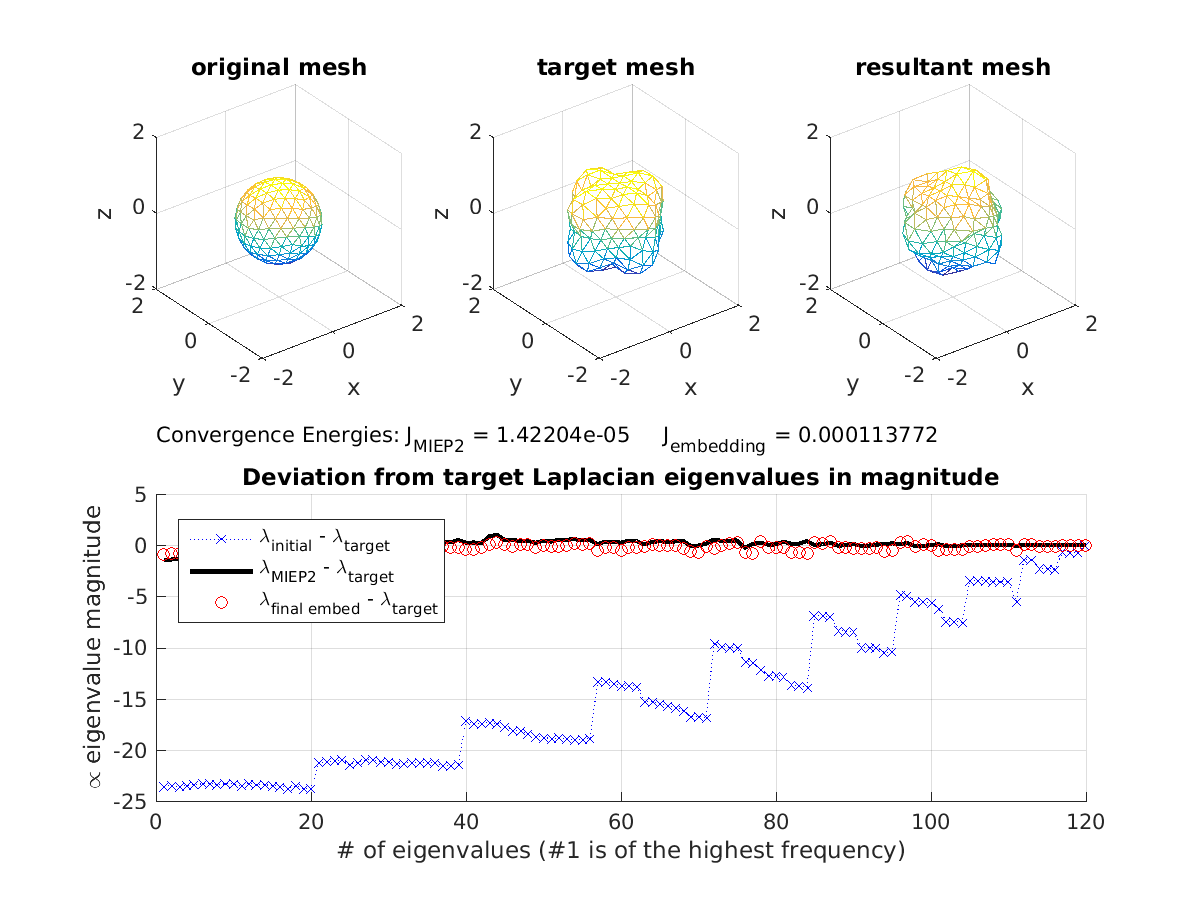
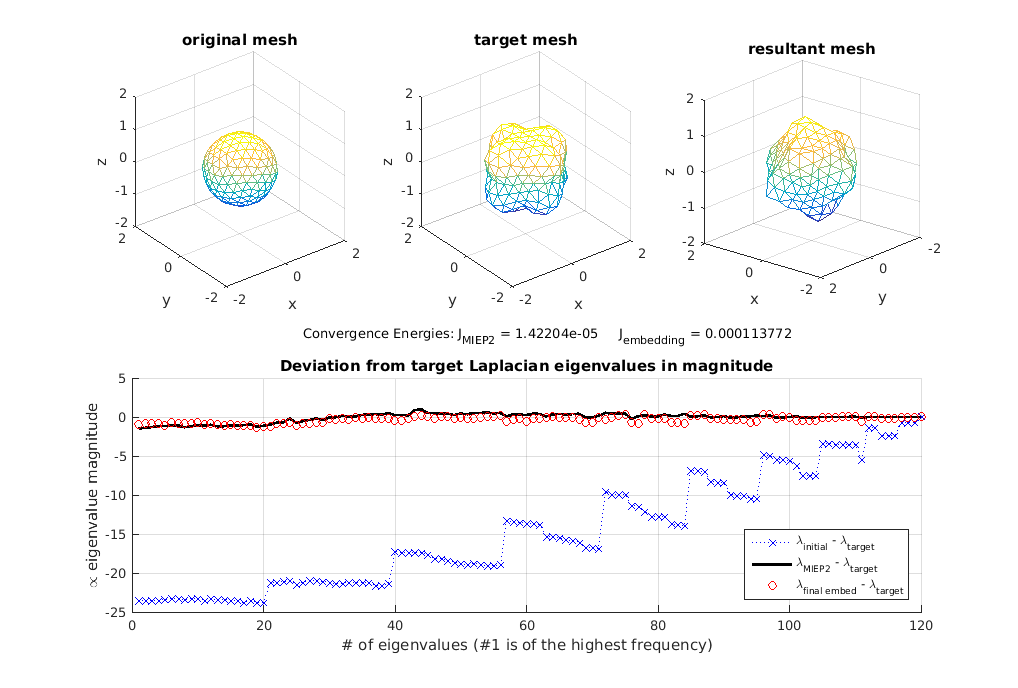
generic new commit

diff --git a/visualize.m b/visualize.m
@@ -1,5 +1,5 @@
 function [figh] = visualize(v,f,v_end,v_T,f_T,...
-  D_0,D_T,D_endp,D_end)
+  J_hist,Jc_hist,D_0,D_T,D_endp,D_end)
 % compare mesh
 Mesh0 = TriRep(f,v); %triangulation(f,v);
 Mesh_T = TriRep(f_T,v_T); %triangulation(f_T,v_T);
@@ -36,12 +36,12 @@ plot((D_end - D_T),'ro');
 %     '\lambda_{target embed} - \lambda_{target}',...
 %     '\lambda_{MIEP2} - \lambda_{target}',...
 %     '\lambda_{final embed} - \lambda_{target}',...
-%     'location','best');
+%     'location','southeast');
 % else
   legend('\lambda_{initial} - \lambda_{target}',...
     '\lambda_{MIEP2} - \lambda_{target}',...
     '\lambda_{final embed} - \lambda_{target}',...
-    'location','best');
+    'location','southeast');
 % end
 % set(gca,'yscale','log');
 xlabel('# of eigenvalues (#1 is of the highest frequency)'); 

diff --git a/test_script.m b/test_script.m
@@ -41,7 +41,7 @@ for numeig = .6:.1:1
 %% visualing results
 close all;
 figh = visualize(v,f,v_end,v_T,f_T,,...
-  D_0,D_T,D_endp,D_end);
+  J_hist,Jc_hist,D_0,D_T,D_endp,D_end);
 %% store for record
 if isa(target_data.dat,'function_handle')
   dumb = func2str(target_data.dat);
